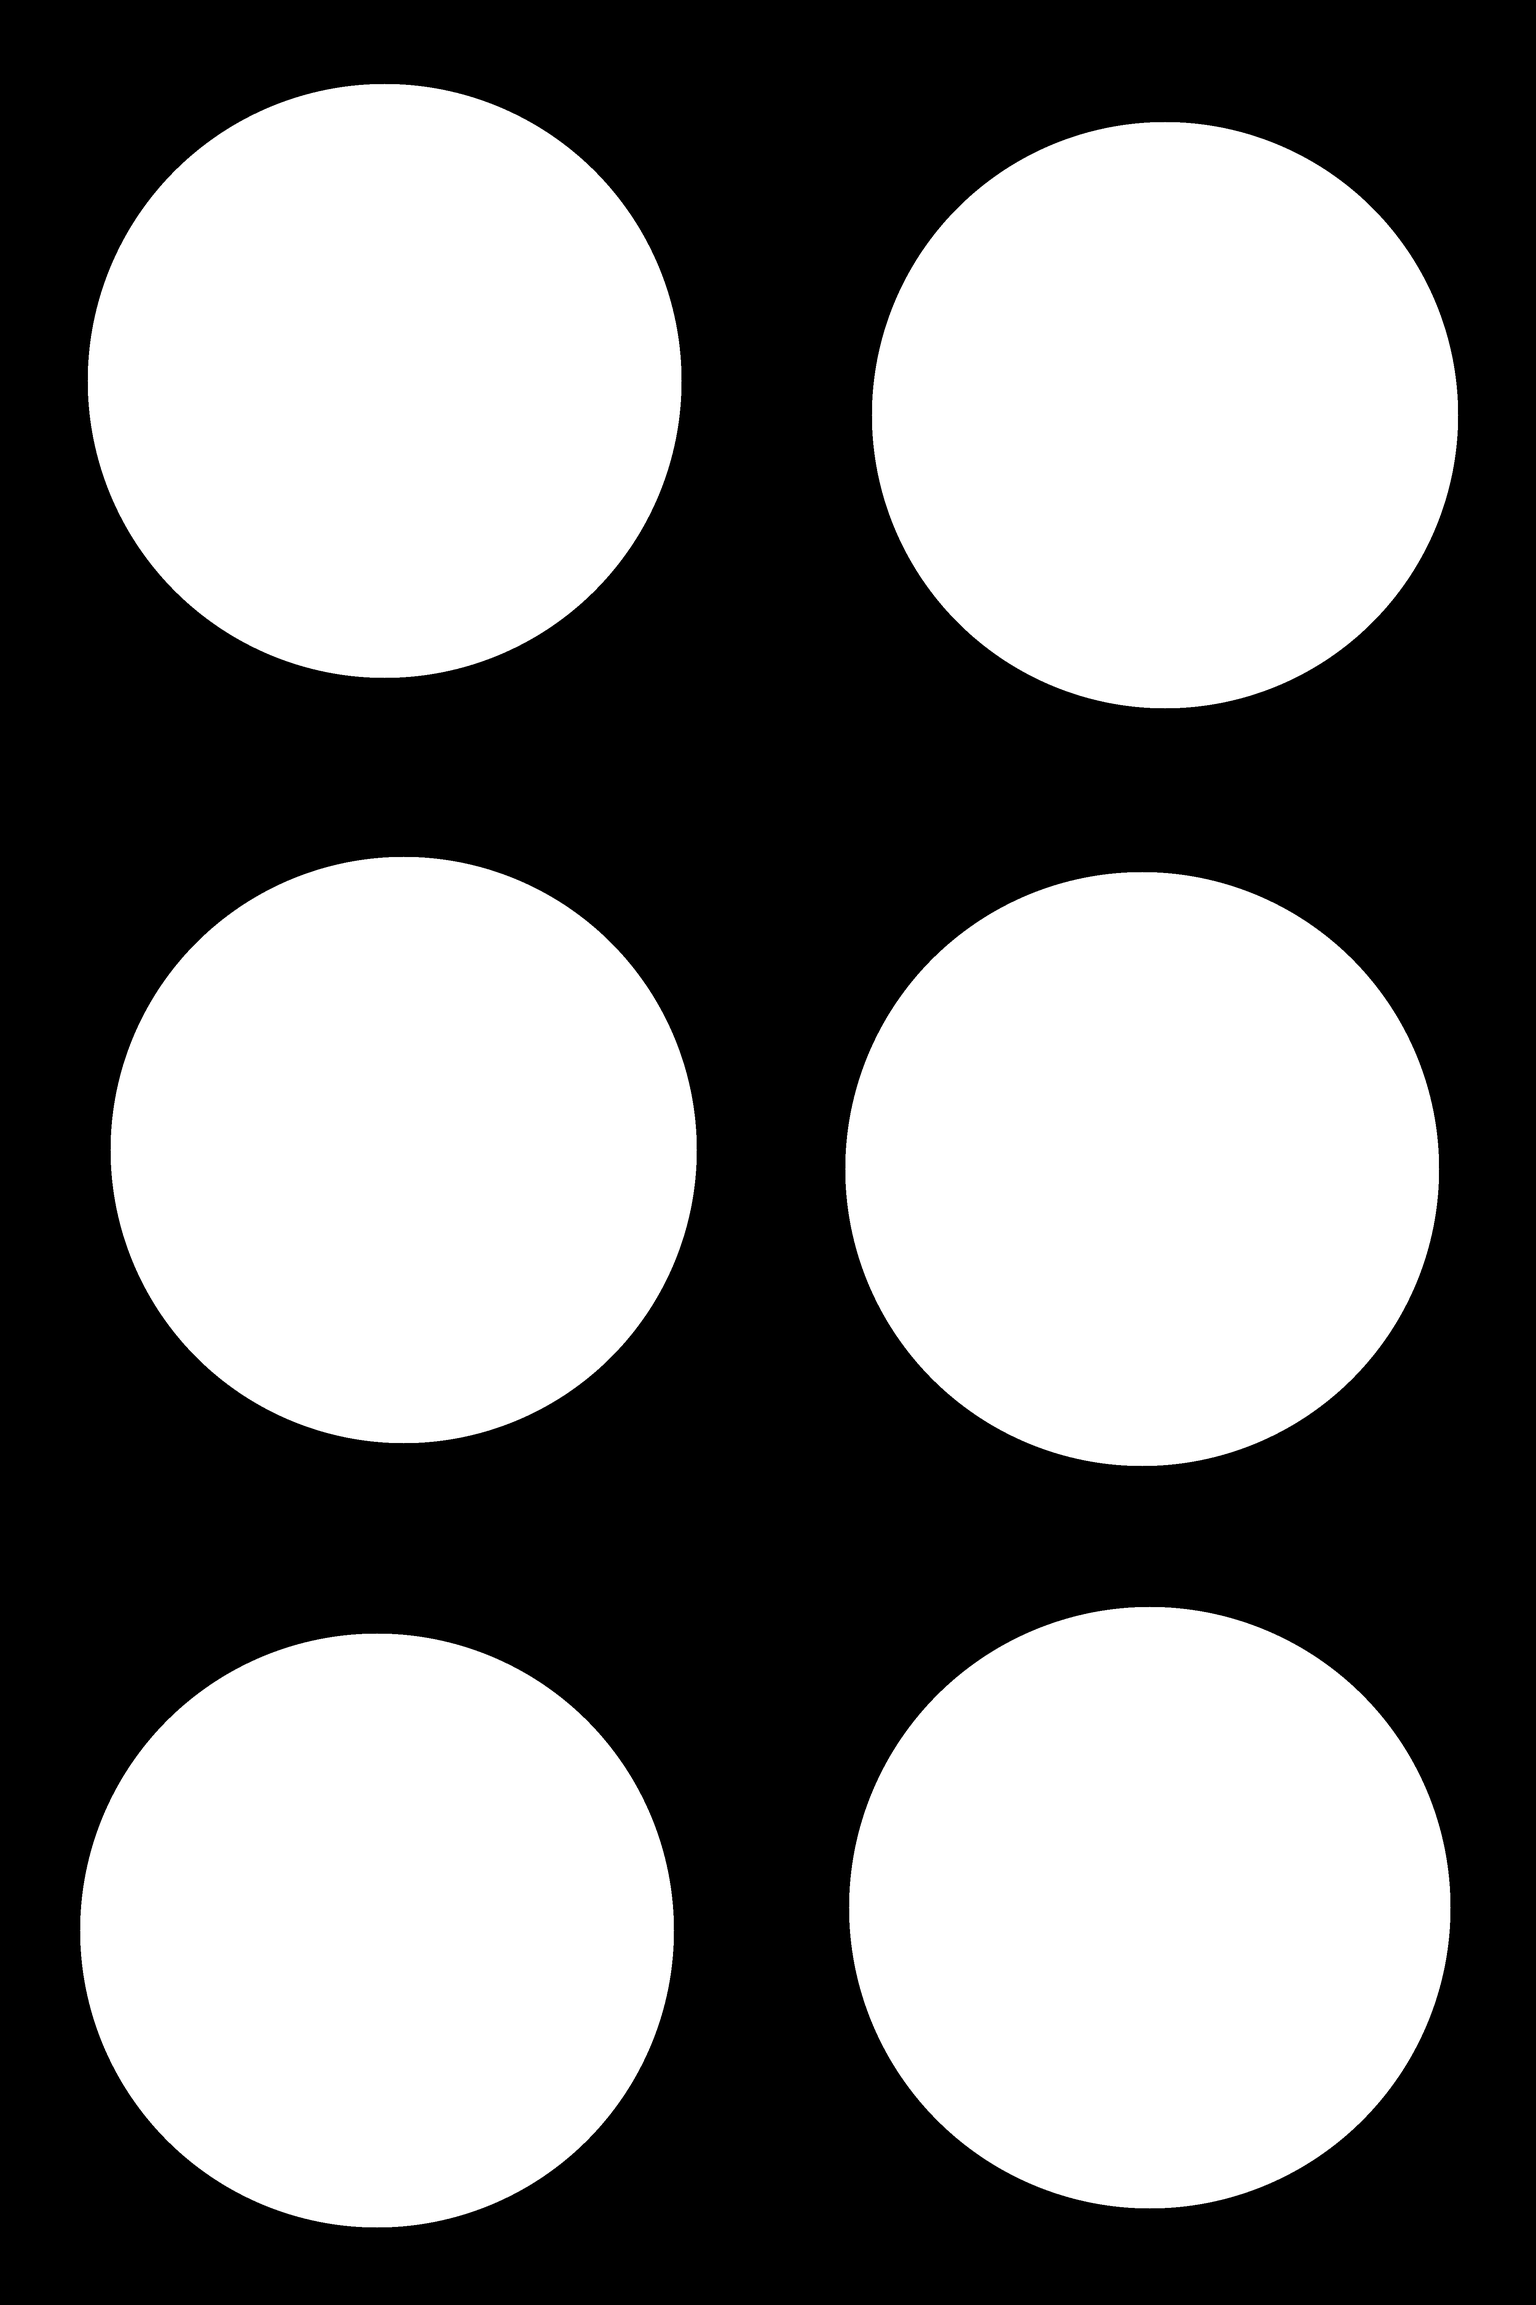
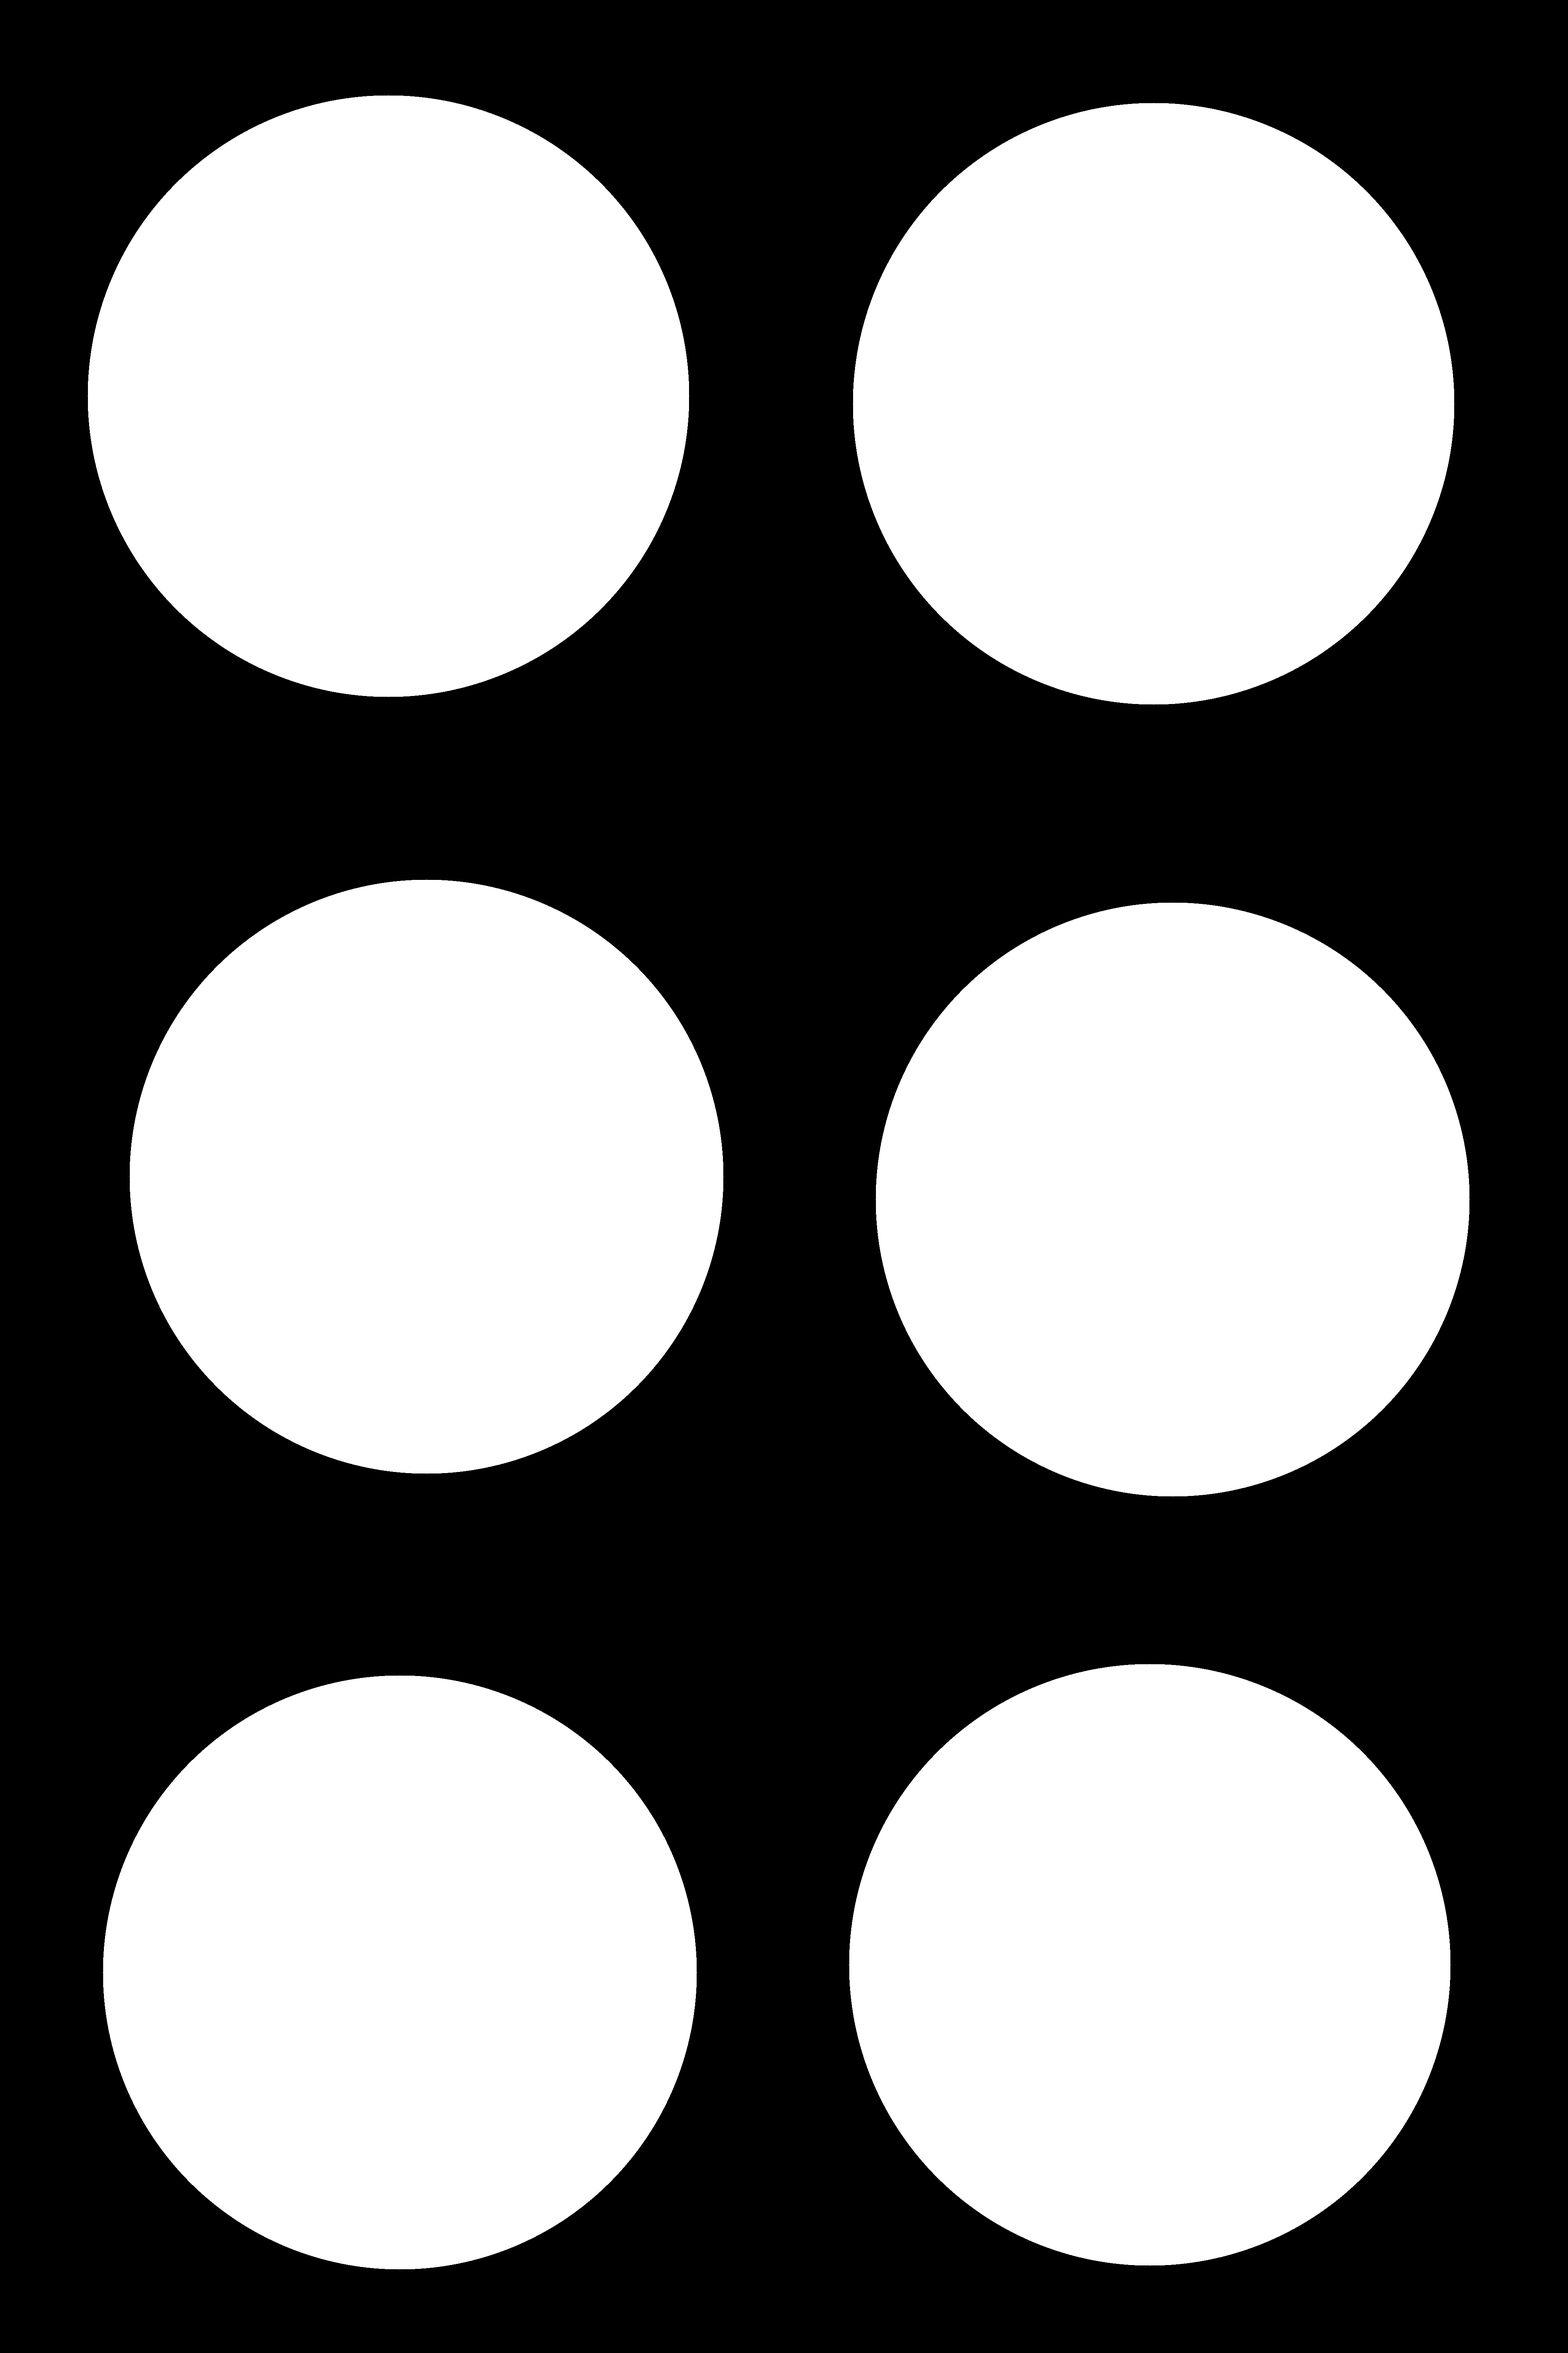
Added python class that processes all folders

diff --git a/Preprocessing/maskDatasetFolders.py b/Preprocessing/maskDatasetFolders.py
@@ -1,0 +1,152 @@
+
+from matplotlib import pyplot as plt
+import numpy as np
+import cv2 as cv2
+import numpy as np
+import matplotlib.pyplot as plt
+import os
+import pandas as pd
+
+from skimage import data, color
+from skimage.transform import hough_circle, hough_circle_peaks
+def check_overlap(x1, y1, r1, x2, y2, r2, w, h):
+    # Check if the first circle is within the picture bounds
+    if not (r1 <= x1 <= w - r1) or not (r1 <= y1 <= h - r1):
+        return False  # Circle 1 is out of bounds
+
+    # Check if the second circle is within the picture bounds
+    if not (r2 <= x2 <= w - r2) or not (r2 <= y2 <= h - r2):
+        return False  # Circle 2 is out of bounds
+
+    # Calculate the distance between the centers of the circles
+    distance = np.sqrt((x2 - x1) ** 2 + (y2 - y1) ** 2)
+    
+    # Check if the circles overlap
+    return distance < (r1 + r2)
+base_path = os.path.abspath(os.path.join(os.path.dirname(__file__), '..'))
+data_folder_path = os.path.join(base_path, 'Data', 'AllData')
+output_folder = os.path.join(base_path, 'Data', 'Output', 'DataSet')
+info = pd.read_excel(r'E:\fredd\Uni\Thesis\Image-Processing\Data\DataDescription.xlsx')
+ibtinfo = info['IBT number']
+
+for folder in os.listdir(data_folder_path):
+    folder_path = os.path.join(data_folder_path, folder, "RIS1_0_TL_20_preset")
+    test1 = ibtinfo.index[ibtinfo.str.contains(folder)]
+    if(test1.size == 0):
+        continue
+    test = test1[0]
+    genus = info.iloc[test]['genus']
+    species = info.iloc[test]['species']
+    if isinstance(species, str) != True:
+        species = ""
+    species = species.replace("\"", "")
+    
+    if species == "":
+        fungi_class = genus.strip()
+    else:
+        fungi_class = genus.strip() + '-' + species.strip()   
+    number = folder.split()[1]
+    dataset_output = os.path.join(base_path, output_folder, fungi_class)
+    if not os.path.exists(dataset_output):
+        os.mkdir(dataset_output)
+    for filename in os.listdir(folder_path):
+        file_path = os.path.join(folder_path, filename)
+        
+        if filename.endswith(('.png', '.jpg', '.jpeg', '.gif', '.bmp', '.tiff')):
+            print("Processing file: " + filename)
+            img = cv2.imread(file_path)
+            ogh, ogw, _ = img.shape
+            ogimg = img.copy()
+            img = cv2.resize(img, (0, 0), fx = 0.1, fy = 0.1)
+            cimg = cv2.cvtColor(img,cv2.COLOR_BGR2GRAY)
+            output=img.copy()
+            low_threshold = 10
+            high_threshold = 80
+                # Read the image using OpenCV
+
+                # Apply Gaussian smoothing
+            blurred_image = cv2.GaussianBlur(cimg, (5, 5), 0)
+
+            # Compute gradients using Sobel operators
+            gradient_x = cv2.Sobel(blurred_image, cv2.CV_64F, 1, 0, ksize=3)
+            gradient_y = cv2.Sobel(blurred_image, cv2.CV_64F, 0, 1, ksize=3)
+
+            # Calculate gradient magnitude and direction
+            magnitude = np.sqrt(gradient_x**2 + gradient_y**2)
+            gradient_direction = np.arctan2(gradient_y, gradient_x) * (180 / np.pi)
+
+            # Non-maximum suppression
+            non_max_suppressed = cv2.Canny(blurred_image, low_threshold, high_threshold)
+
+            # Edge tracking by hysteresis
+            edge_map = cv2.Canny(blurred_image, low_threshold, high_threshold)
+
+            # Example usage
+            kernel = np.ones((3,3))
+                # do a morphologic close
+            edge_map = cv2.morphologyEx(edge_map,cv2.MORPH_CLOSE, kernel)
+
+
+            hough_radii = np.arange(75, 100)
+            hough_res = hough_circle(edge_map, hough_radii)
+
+            # Select the most prominent 3 circles
+            _, cx, cy, radii = hough_circle_peaks(hough_res, hough_radii, 100, 100, total_num_peaks=6)
+
+            h, w, _ = img.shape
+            mask = np.zeros((ogimg.shape), np.uint8)
+        
+    # Initialize a list to store the detected circles that don't overlap
+            valid_circles = []
+            for center_y, center_x, radius in zip(cy, cx, radii):
+                cv2.circle(mask, ((center_x*10), (center_y*10)), ((radius-20)*10), (255, 255, 255), -1)
+            # Loop through detected circles
+            # for center_y, center_x, radius in zip(cy, cx, radii):
+            #     center_x_scaled, center_y_scaled, radius_scaled = center_x * 10, center_y * 10, radius * 10
+            #     # Check overlap with previously added circles
+            #     overlap = False
+            #     for valid_circle in valid_circles:
+            #         if check_overlap(center_x_scaled, center_y_scaled, radius_scaled, valid_circle[0], valid_circle[1], valid_circle[2], ogw, ogh):
+            #             overlap = True
+            #             break
+                
+            #     # If no overlap, add the circle to the valid list and draw it
+            #     if not overlap:
+            #         valid_circles.append((center_x_scaled, center_y_scaled, radius_scaled))
+            #         cv2.circle(mask, (center_x_scaled, center_y_scaled), radius_scaled, (255, 255, 255), -1)
+        
+            cv2.imwrite("mask.png", mask)
+            mask2 = cv2.imread('mask.png',0)
+            # # Original Image
+            res = cv2.bitwise_and(ogimg,ogimg,mask = mask2)
+            res = cv2.resize(res, (0, 0), fx = 0.1, fy = 0.1)
+            
+            cv2.imwrite(dataset_output + '\\' + (number+"_"+filename), res)
+    print("Finished with: " + folder)
+
+
+# plt.subplot(1, 4, 1)
+# plt.imshow(cv2.cvtColor(output, cv2.COLOR_BGR2RGB))
+# plt.title('Original Image')
+# plt.axis('off')
+
+# # Display the images
+# plt.subplot(1, 4, 2)
+# plt.imshow(cv2.cvtColor(edge_map, cv2.COLOR_BGR2RGB))
+# plt.title('Edge')
+# plt.axis('off')
+
+# # Display the images
+# plt.subplot(1, 4, 3)
+# plt.imshow(cv2.cvtColor(mask2, cv2.COLOR_BGR2RGB))
+# plt.title('Mask')
+# plt.axis('off')
+
+# # Canny Edge-detected Image
+
+# plt.subplot(1, 4, 4)
+# plt.imshow(cv2.cvtColor(res, cv2.COLOR_BGR2RGB))
+# plt.title('Masked image')
+# plt.axis('off')
+# # Display the images
+# plt.show()
